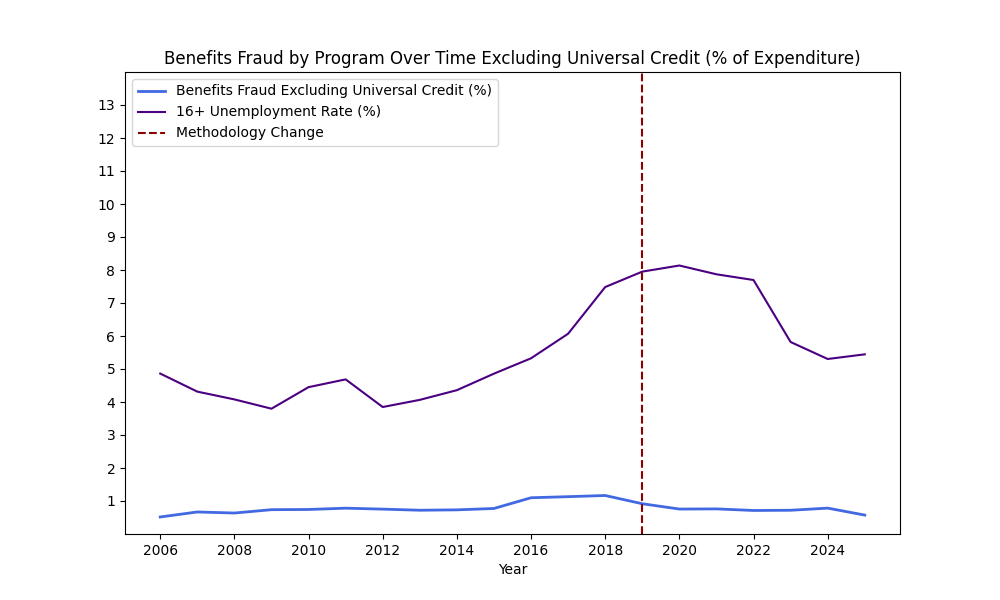
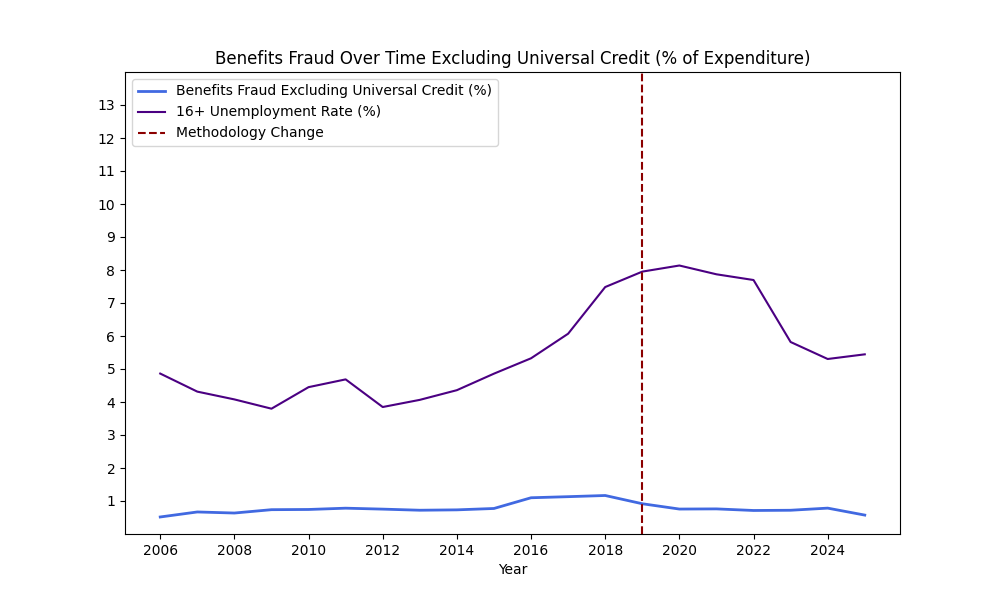
Did finding section except our conclusion based on the data

Changed region(s): [[0.155, 0.09, 0.868, 0.12]]

diff --git a/scripts/make_graphs.py b/scripts/make_graphs.py
@@ -65,7 +65,7 @@ ax.plot(years,df_fraud_percent_no_uc_unemployment["Benefits Fraud"][years], labe
 ax.plot(years,df_fraud_dollars_unemployment["16+ Unemployment Rate"][years], label="16+ Unemployment Rate (%)",color="indigo")
 ax.axvline(2019, linestyle="dashed", color="darkred", label="Methodology Change")
 ax.legend(loc='upper left')
-ax.set_title("Benefits Fraud by Program Over Time Excluding Universal Credit (% of Expenditure)")
+ax.set_title("Benefits Fraud Over Time Excluding Universal Credit (% of Expenditure)")
 ax.set_xlabel("Year")
 ax.set_xticks(range(2006,2026,2))
 ax.set_ybound(0,14)

diff --git a/README.md b/README.md
@@ -51,23 +51,21 @@ In order to combine the fraud and labor data sets, we decided to convert the lab
 
 ## Findings
 
-[(Unemployment negatively correlated with fraud, so the opposite of hypothesis is true. Results were statistically significant)]
-
-[Summary of analysis procedures]
+[Summary of analysis procedures, graphs, linear models]
 
 ![A graph of fraud by program over time](reportImages/programs.png)
 
-[Discuss graph, statistically significant]
+In the above graph we see benefits fraud broken down by program as a percent of expenditures. In this graph, most programs saw a roughly stable level of fraud over the 19 year period with most rising a bit over time, however Universal Credit quickly spiked up after its inception especially in 2020-2023 during the COVID-19 pandemic. Universal Credit is also one of the biggest contributors to fraud in the dataset (80% of 2025's fraud), so we will analyze the data both including and excluding Universal Credit.
 
 ![A graph of total fraud dollars vs unemployment and total fraud percentage vs employment](reportImages/totalfraud.png)
 
-[Discuss graphs, statistically significant]
+The above graph of total benefits fraud against unemployment shows that on both a dollar and percentage basis there is a clear positive relationship between unemployment and benefits fraud. For fraud dollars, using linear regression yielded a coefficient of 7.771*10<sup>8</sup> and a p-value of 0.026, which is statistically significant as an alpha level of 0.05. For fraud percentage, the coefficient was 0.3293 with a p-value of 0.007, which is also statistically significant. This causes us to conclude that there is a positive correlation between benefits fraud and unemployment.
 
 ![A graph of total fraud percentage without universal credit vs unemployment](reportImages/no_uc.png)
 
-[Discuss graph, NOT statistically significant, 1/8 coefficient as with UC]
+Excluding Universal Credit from the data tells a different story. As shown in the above graph, the benefits fraud of all other programs combined is pretty stagnant over the entire 19 year period. A linear model fit to the data (`analysis/fraud_dollar_no_uc_unemployment.txt`) had a coefficient of 0.0417 and a p-value of 0.113, which is not statistically significant. This means that we cannot conclude based on our data that the fraud of programs other than Universal Credit correlates with unemployment at all at an alpha level of 0.05.
 
-[Draw conclusions]
+[Draw conclusions; discuss surprise about positive correlation but how Universal Credit is an exception to the rule, so apply lessons based on data excluding it (it suggests fraud likely isn't due to financial hardship, but rather willful theft)]
 
 ## Future Work
 

diff --git a/TODO.md b/TODO.md
@@ -1,6 +1,8 @@
 Add version numbers to dependencies (pip freeze) and install guide
 - test with clean venv to get definite list
 
+Add linear analysis lines to graphs
+
 Report findings
 - write about conclusions
 
